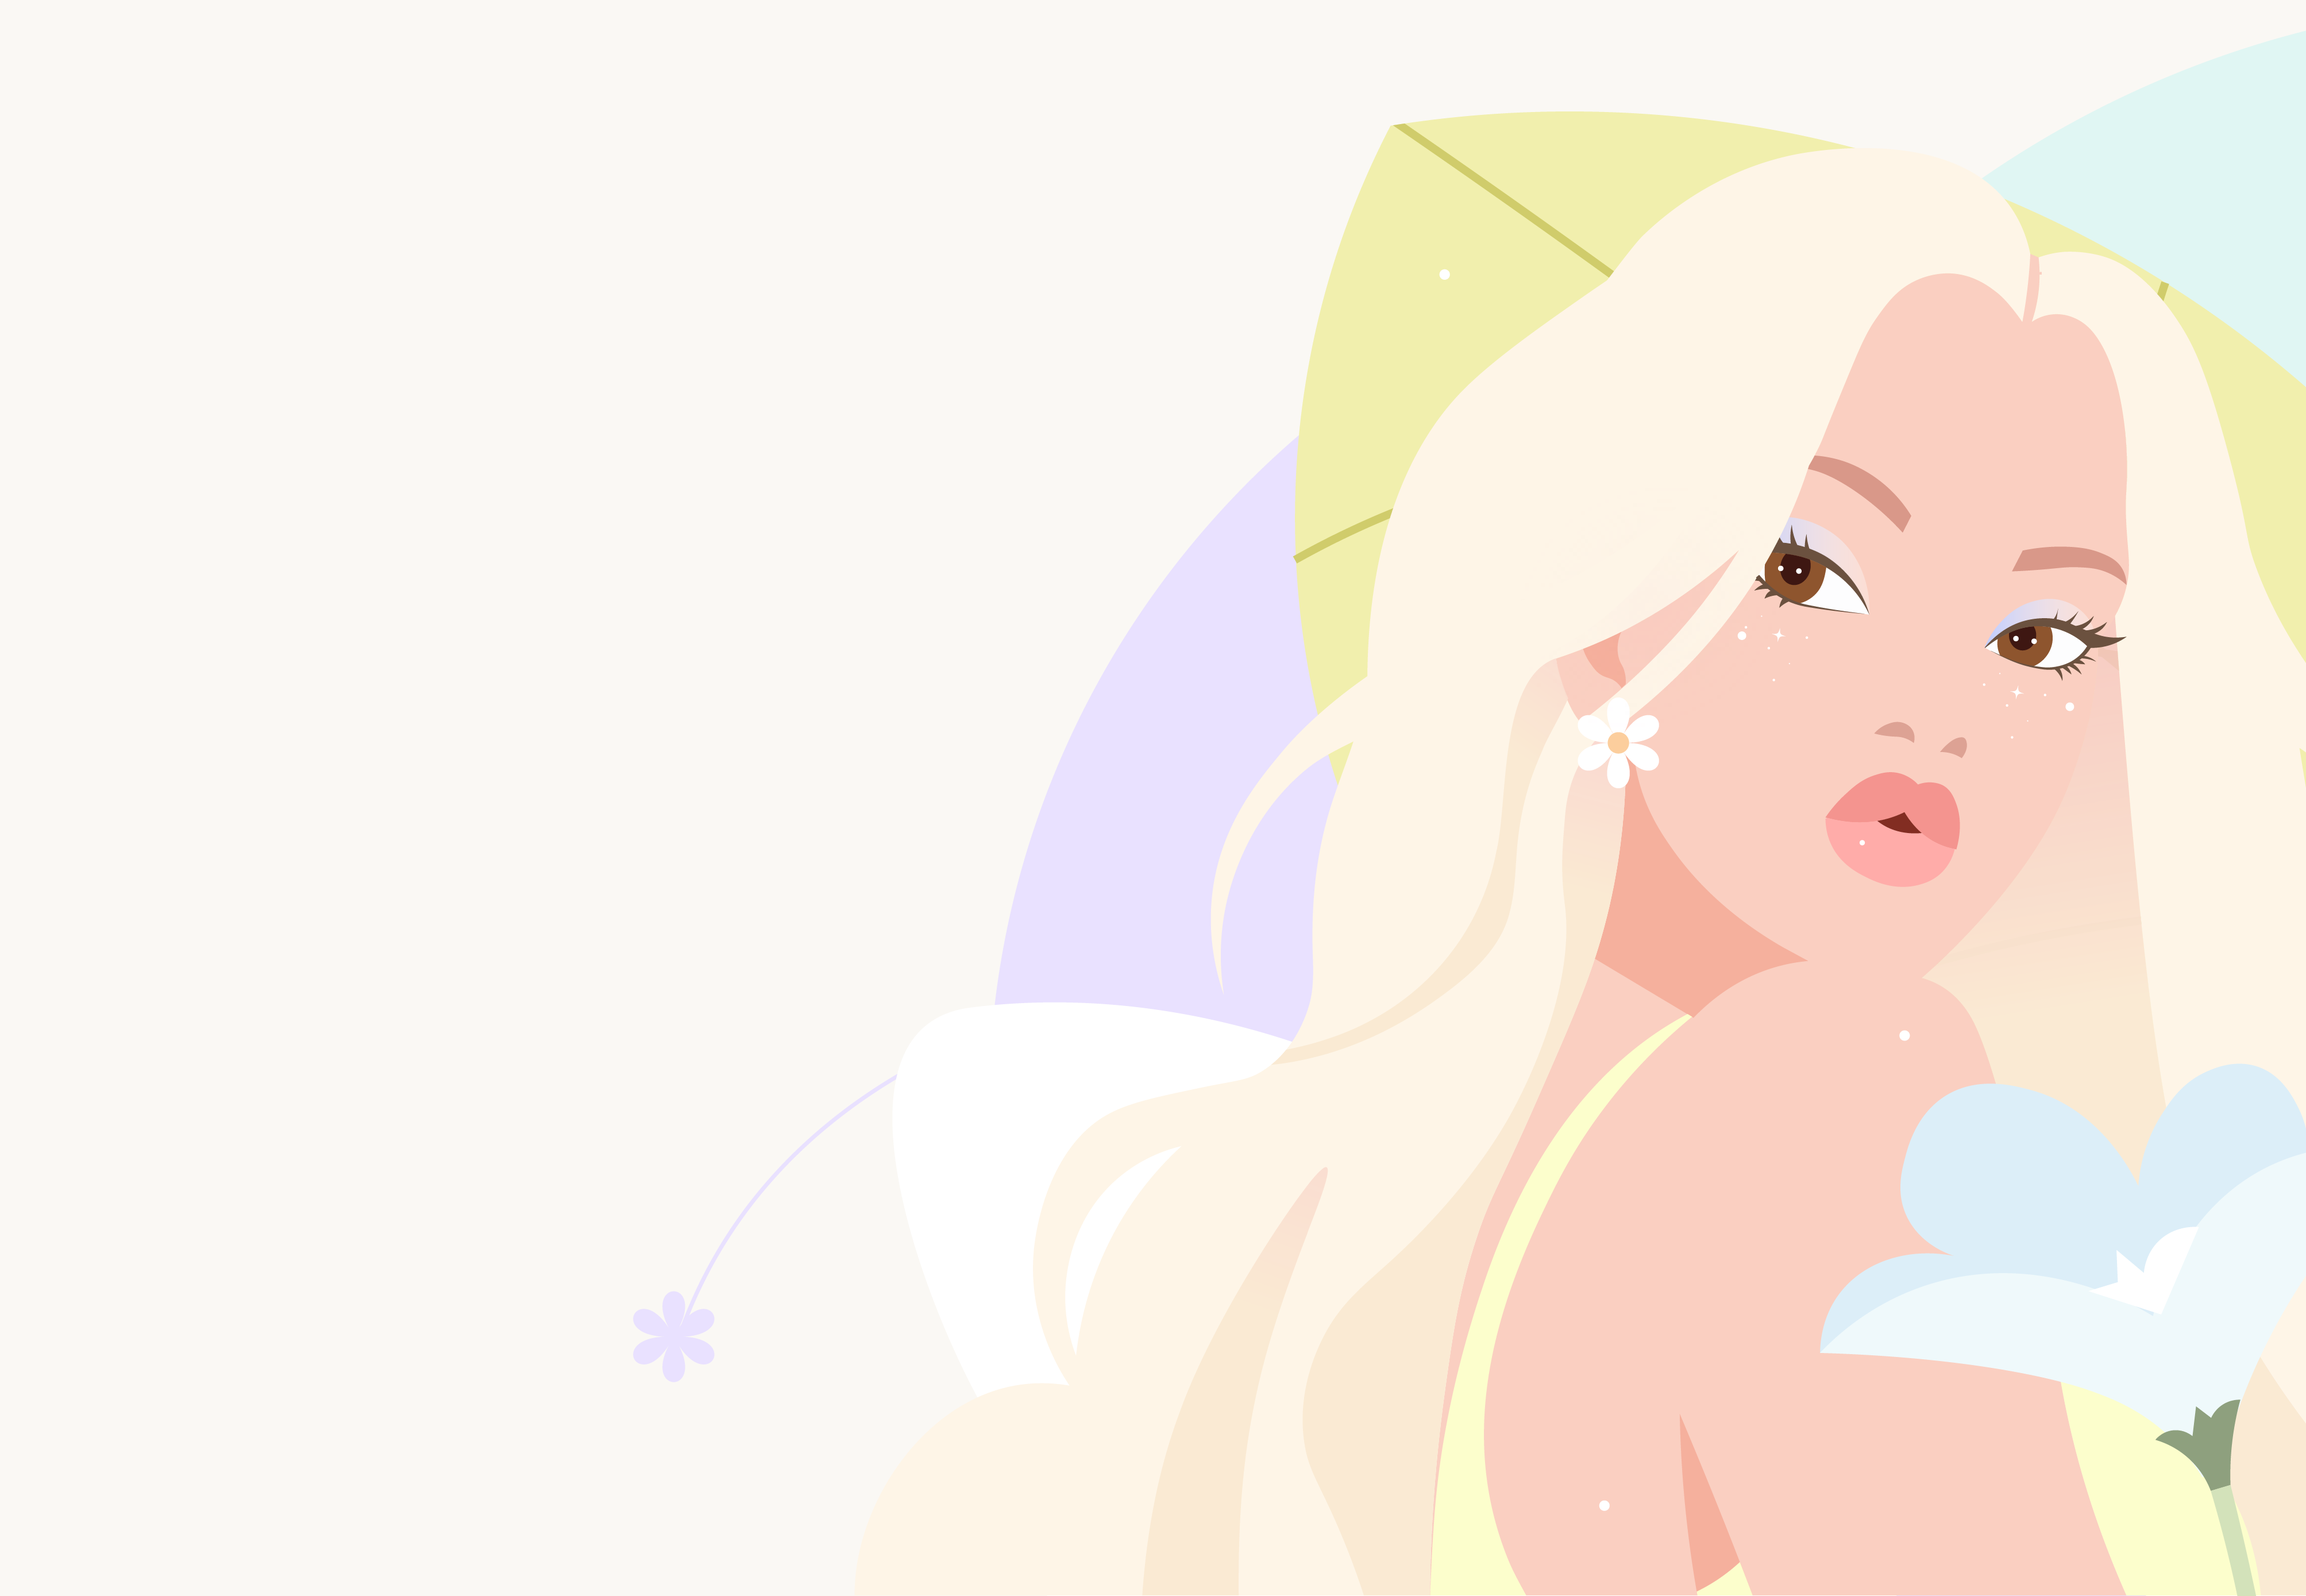
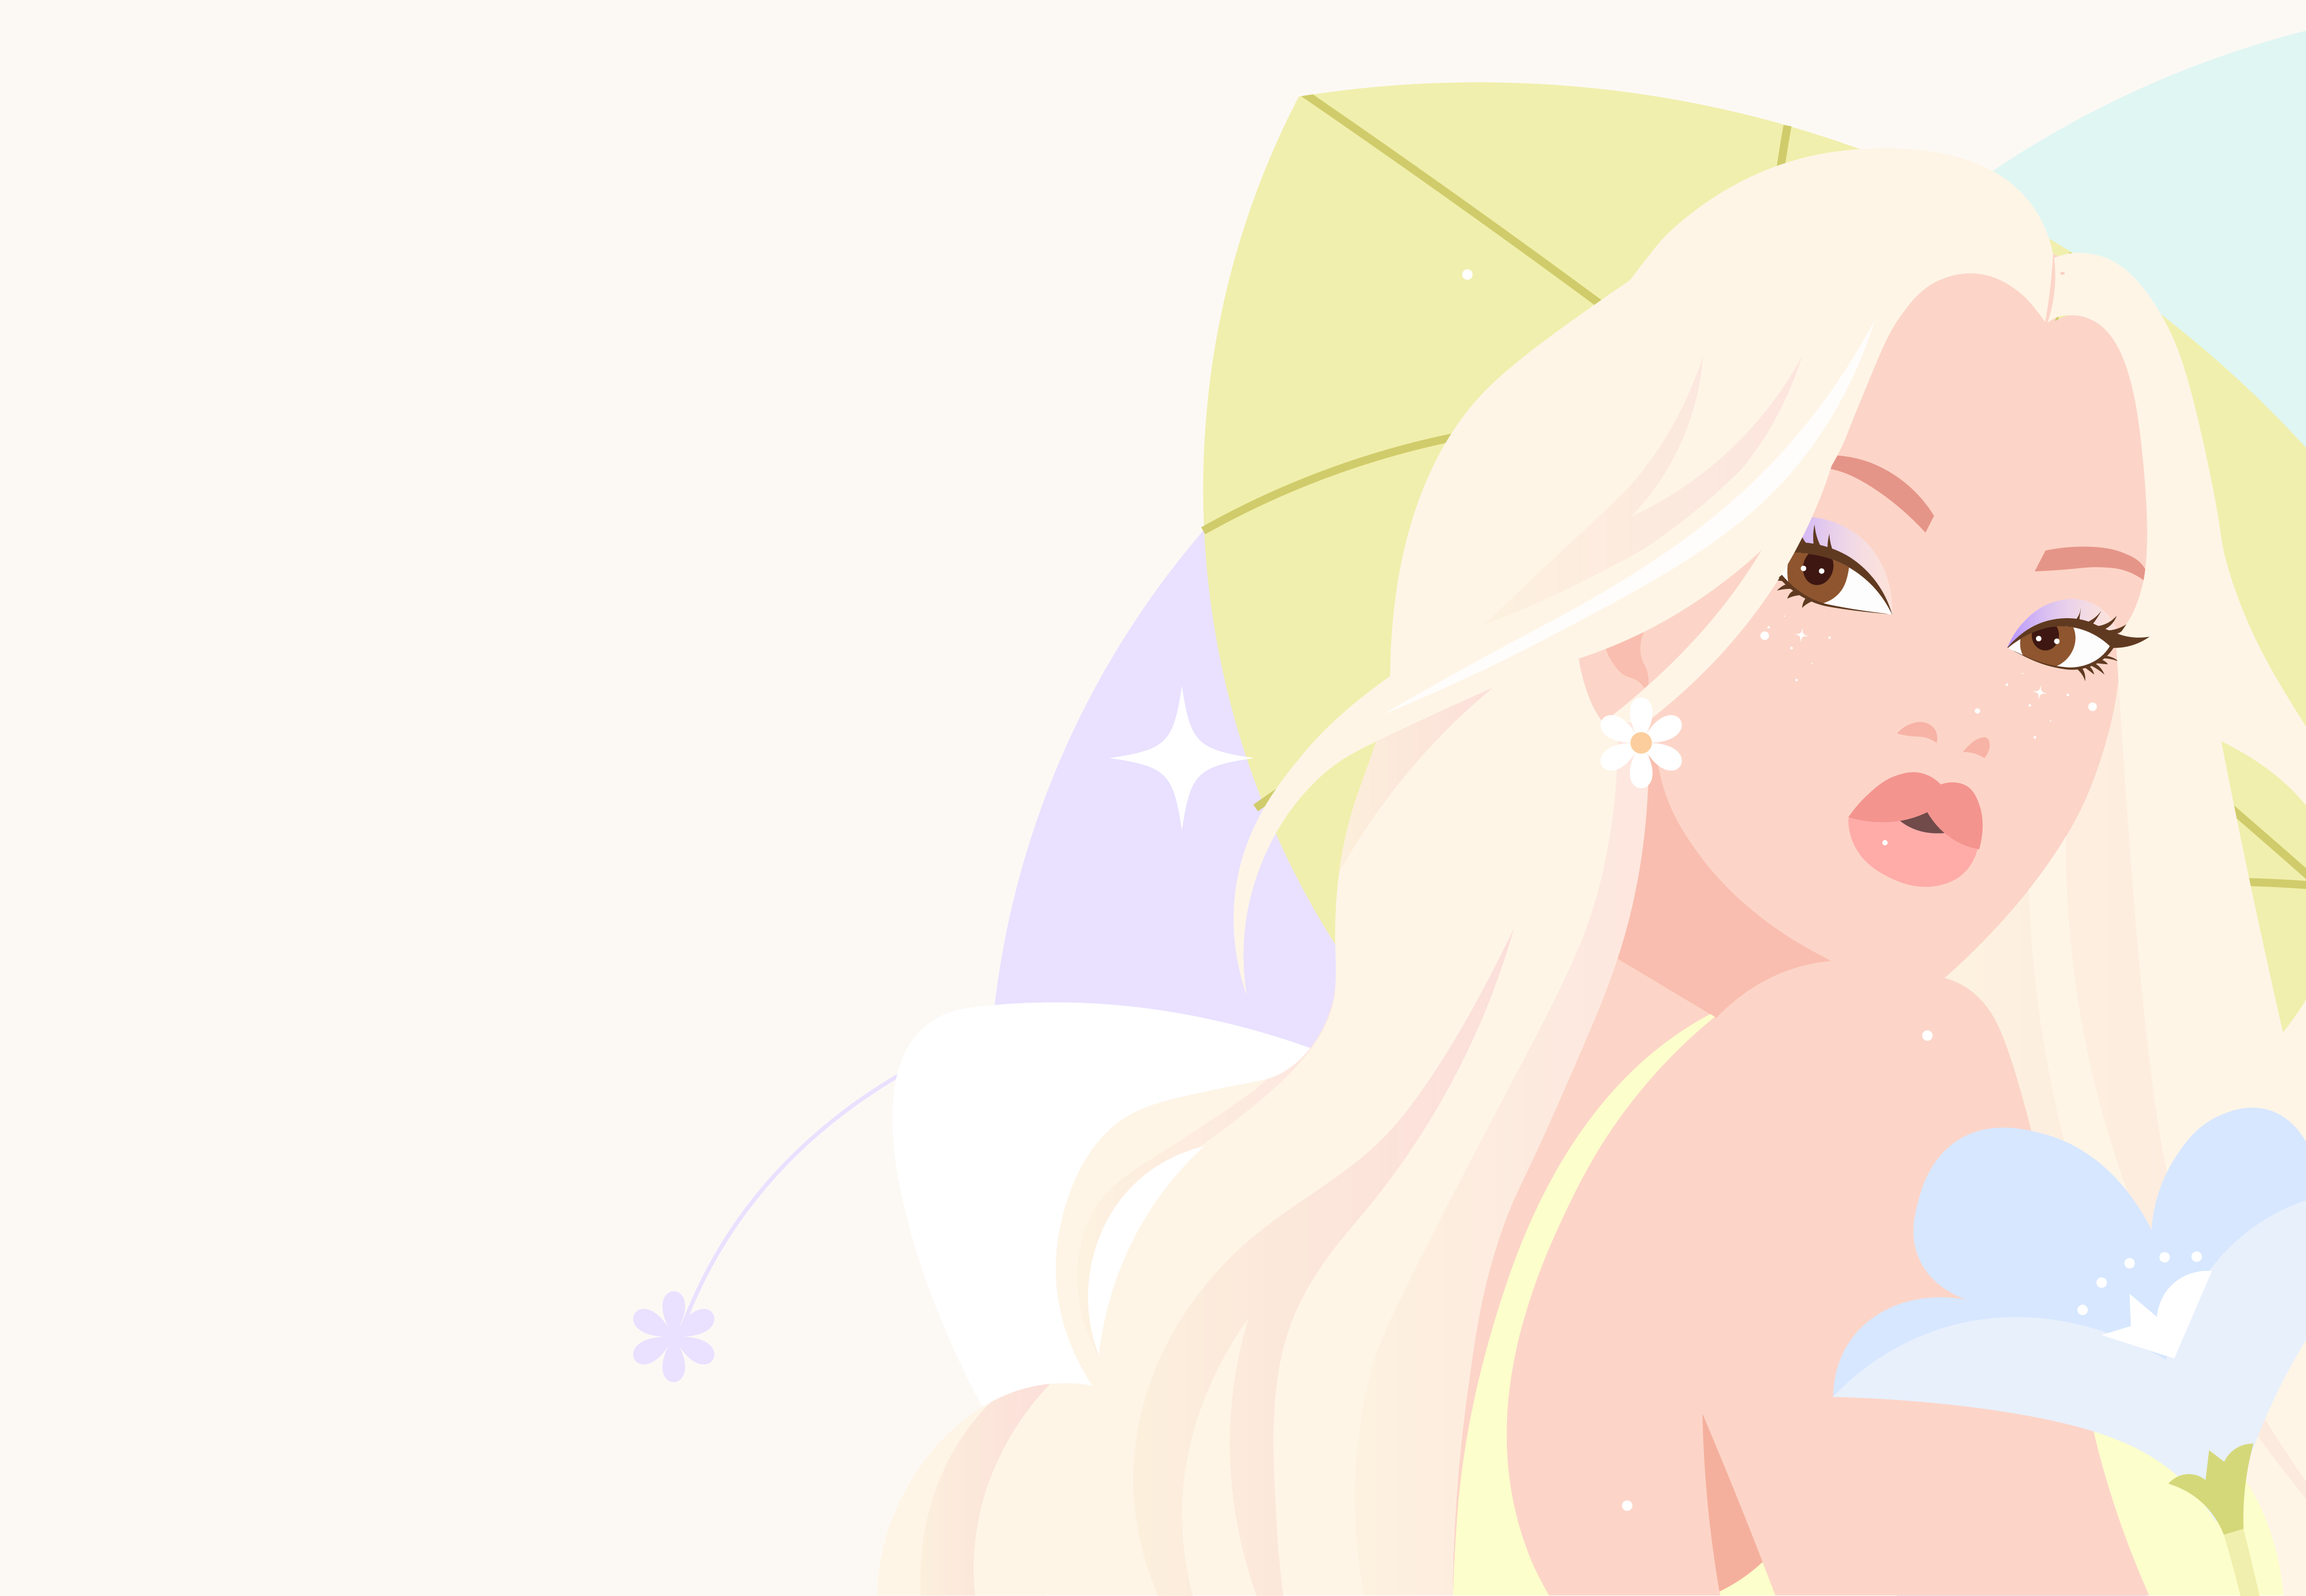
Update 🌩

diff --git a/styles.css b/styles.css
@@ -67,6 +67,7 @@ footer {
     align-items: center;
     padding: 1.5rem var(--page-padding) 0.6rem;
     z-index: 100;
+    margin: 25px 25px 25px 25px;
 }
 
 .logo {
